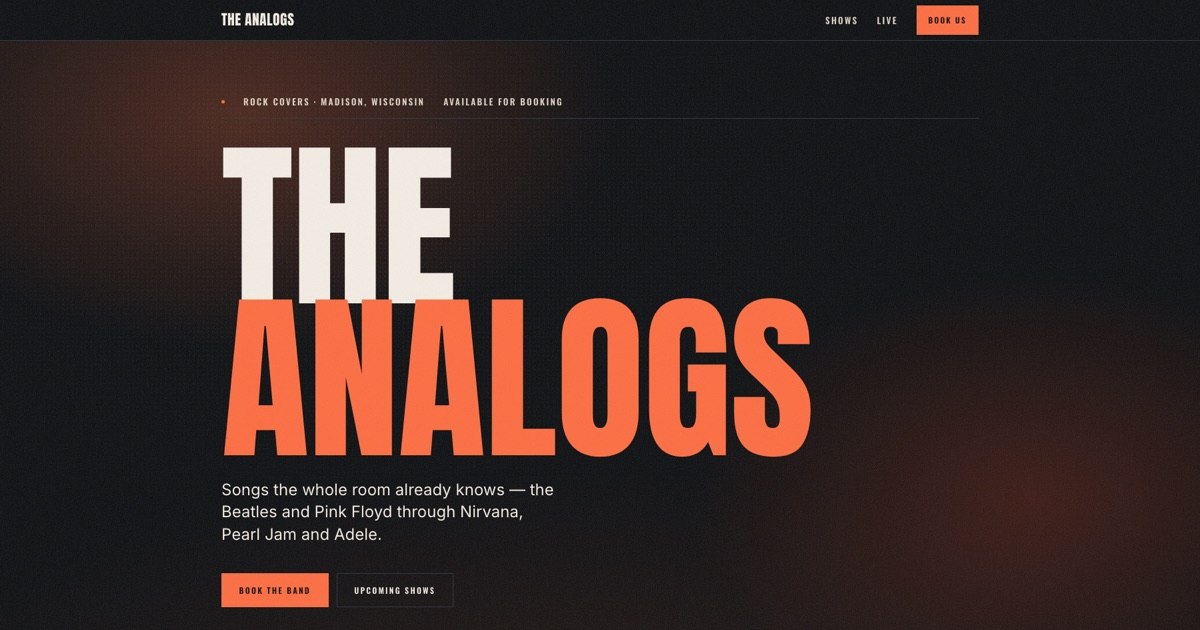
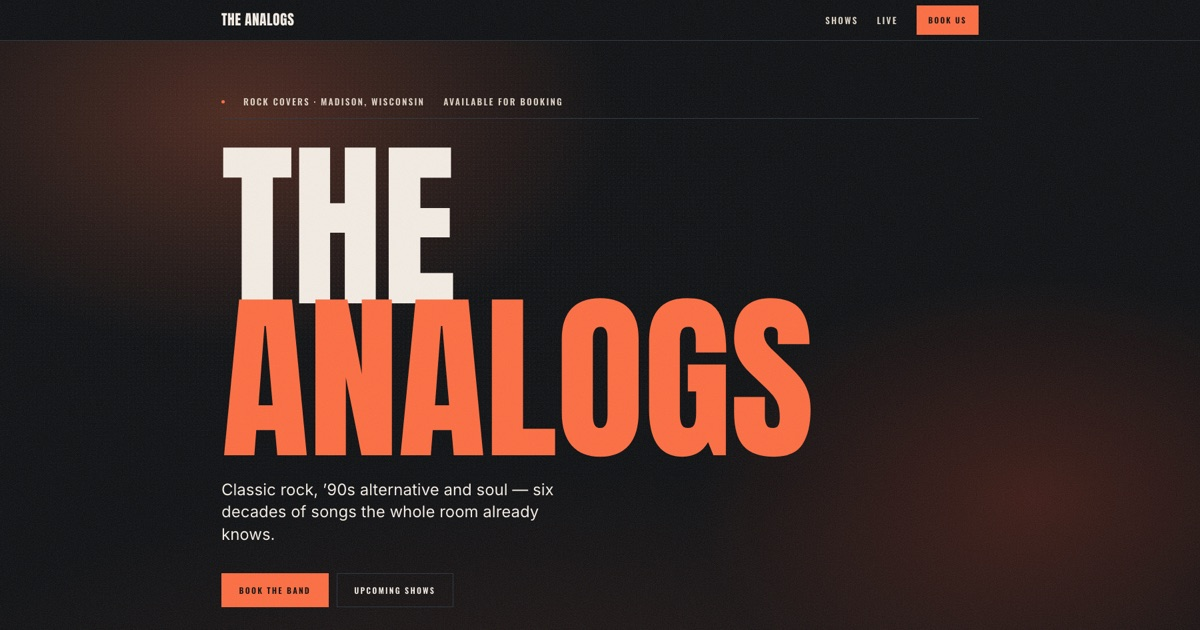
Hook describes genres and range, no artist names

Changed region(s): [[0.185, 0.754, 0.4625, 0.8746]]

diff --git a/app/content.ts b/app/content.ts
@@ -25,7 +25,9 @@ export const BAND = {
      given as reference for describing the band — ⛔ not to be listed on the
      site. Add the size of the band ("Four pieces — …") once the lineup below
      is filled in. */
-  hook: "Songs the whole room already knows — the Beatles and Pink Floyd through Nirvana, Pearl Jam and Adele.",
+  /* ⛔ NO ARTIST NAMES OR SONG TITLES ANYWHERE ON THE SITE. Owner, 2026-10-09:
+     describe the genres and the range, not specific bands. */
+  hook: "Classic rock, ’90s alternative and soul — six decades of songs the whole room already knows.",
 
   /* ⚠ ASSUMED — both lines are Carper Diem's, word for word. Same area, so
      probably right; change them if this band plays different rooms. */
